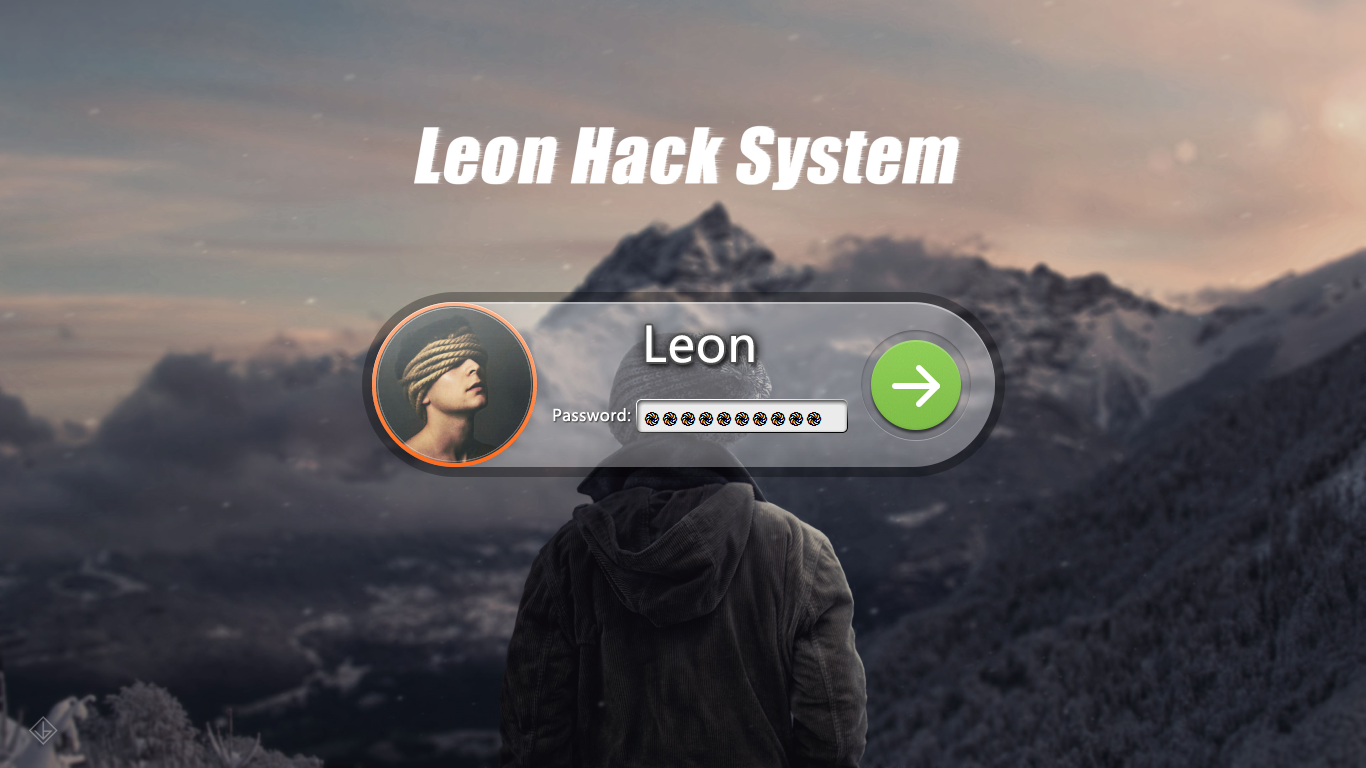
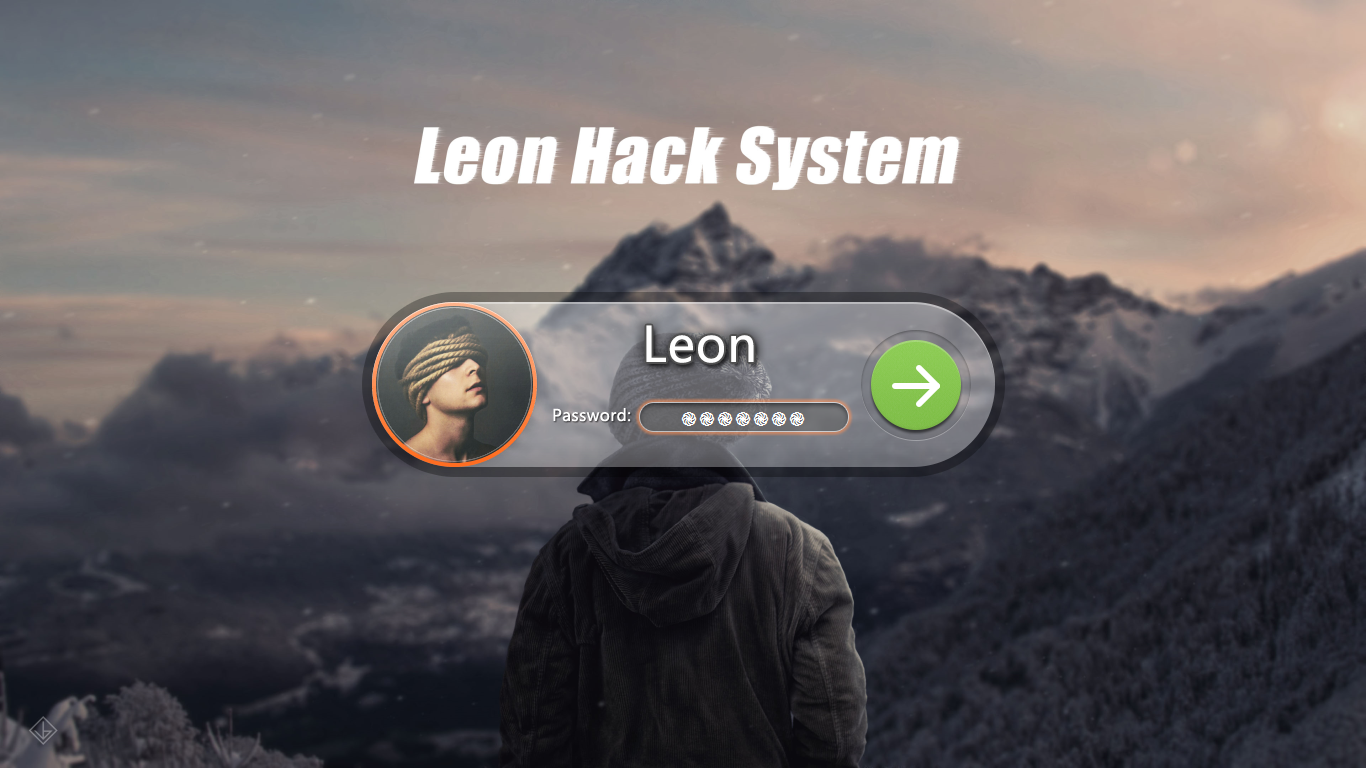
更新登录界面的截图和附带小游戏的截图

Changed region(s): [[0.4612, 0.5, 0.6457, 0.5938]]

diff --git a/README.md b/README.md
@@ -39,6 +39,9 @@
 * HackSystem 置后显示(嵌入到物理系统的桌面内)，你可以正常操作其他应用程序的窗口。
 ![image](./Screenshot/thumb/CuteLeon.Hack-System.S10.jpg)
 ***
+* HackSystem 内附带的1010和2048小游戏(上图的扫雷也是内置的)。
+![image](./Screenshot/thumb/CuteLeon.Hack-System.S12.jpg)
+***
 * HackSystem 关闭。
 ![image](./Screenshot/thumb/CuteLeon.Hack-System.S11.jpg)
 
